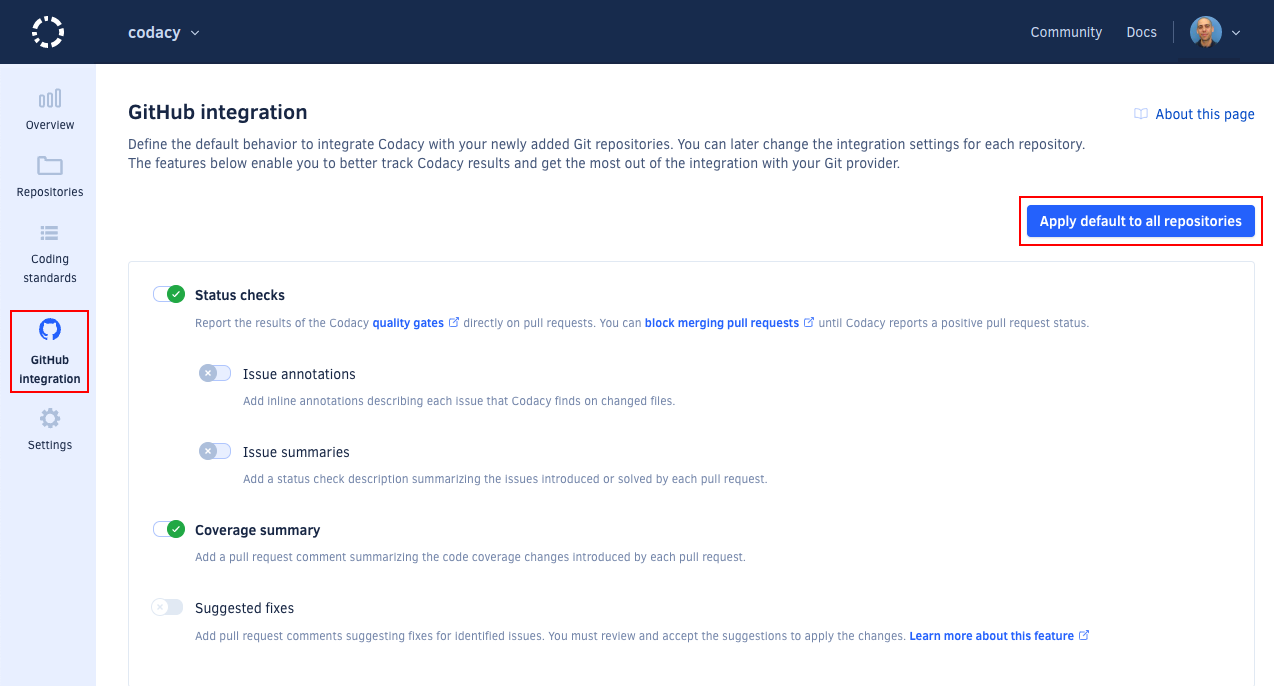
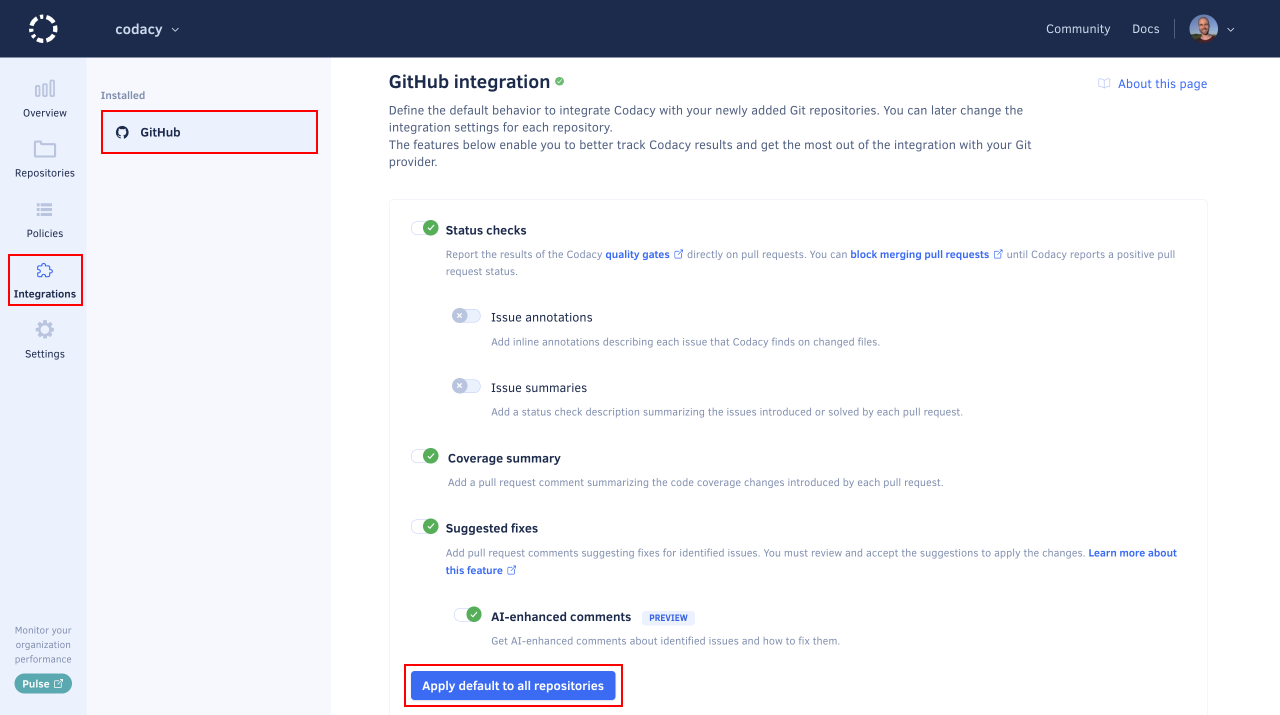
feat: Update screenshots with new Integrations menu entry

diff --git a/docs/organizations/configuring-default-git-provider-integration-settings.md b/docs/organizations/configuring-default-git-provider-integration-settings.md
@@ -2,7 +2,7 @@
 
 You can configure the default settings that Codacy uses to integrate with your Git provider when you add a new repository to Codacy. This enables you to apply the same settings across your organization repositories.
 
-To configure these default settings, go to the Git provider integration page for your organization on the left navigation sidebar.
+To configure these default settings, open your organization **Integrations** page and select your Git provider.
 
 ![Default Git provider integration settings](images/default-git-provider-settings.png)
 
